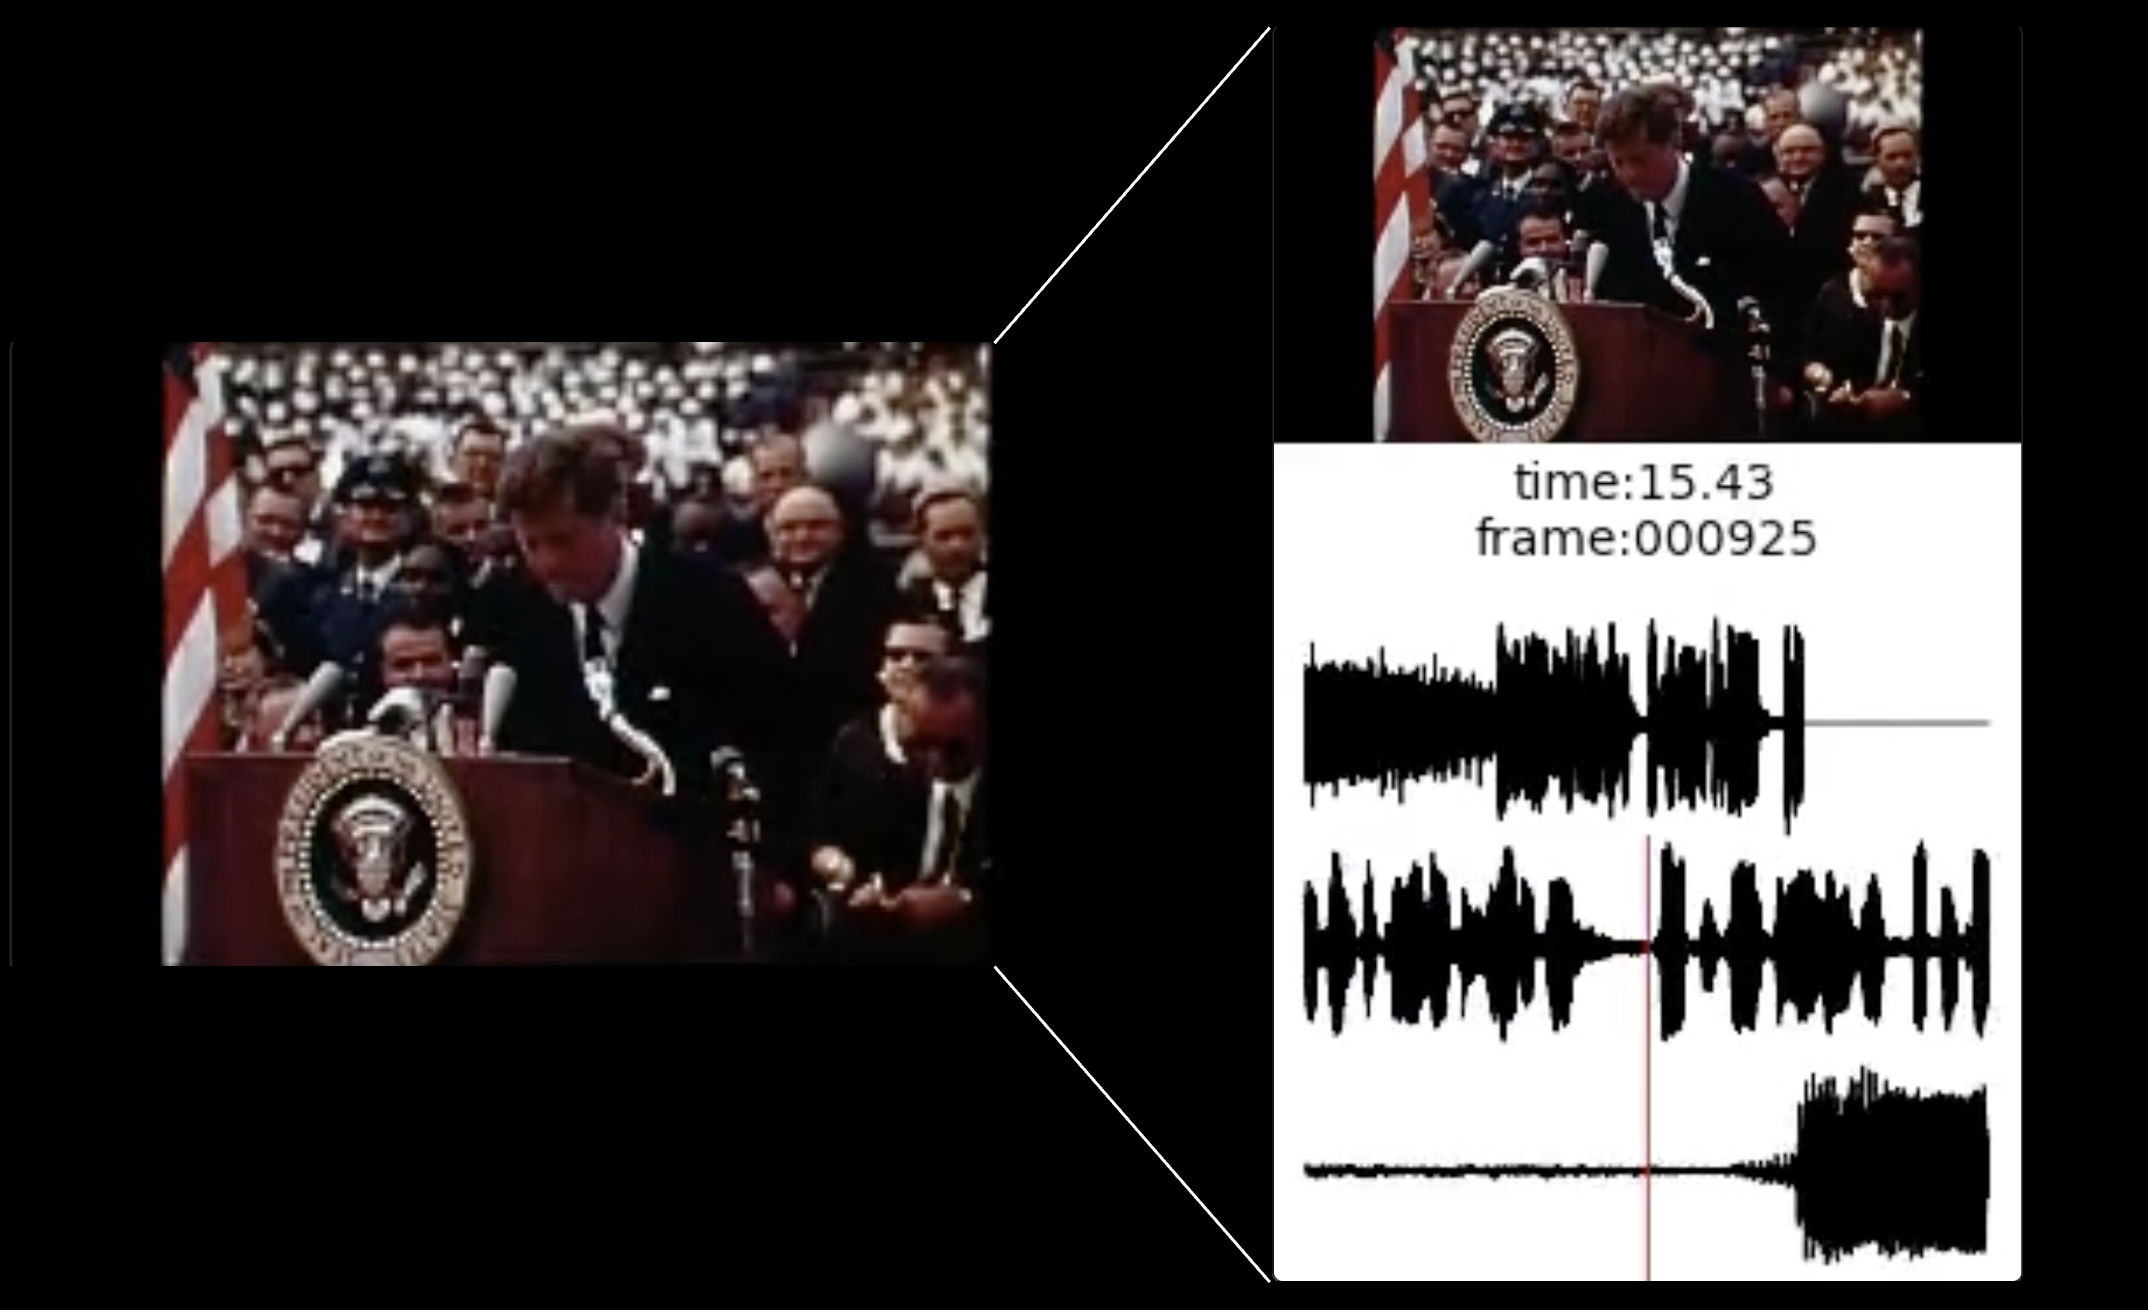
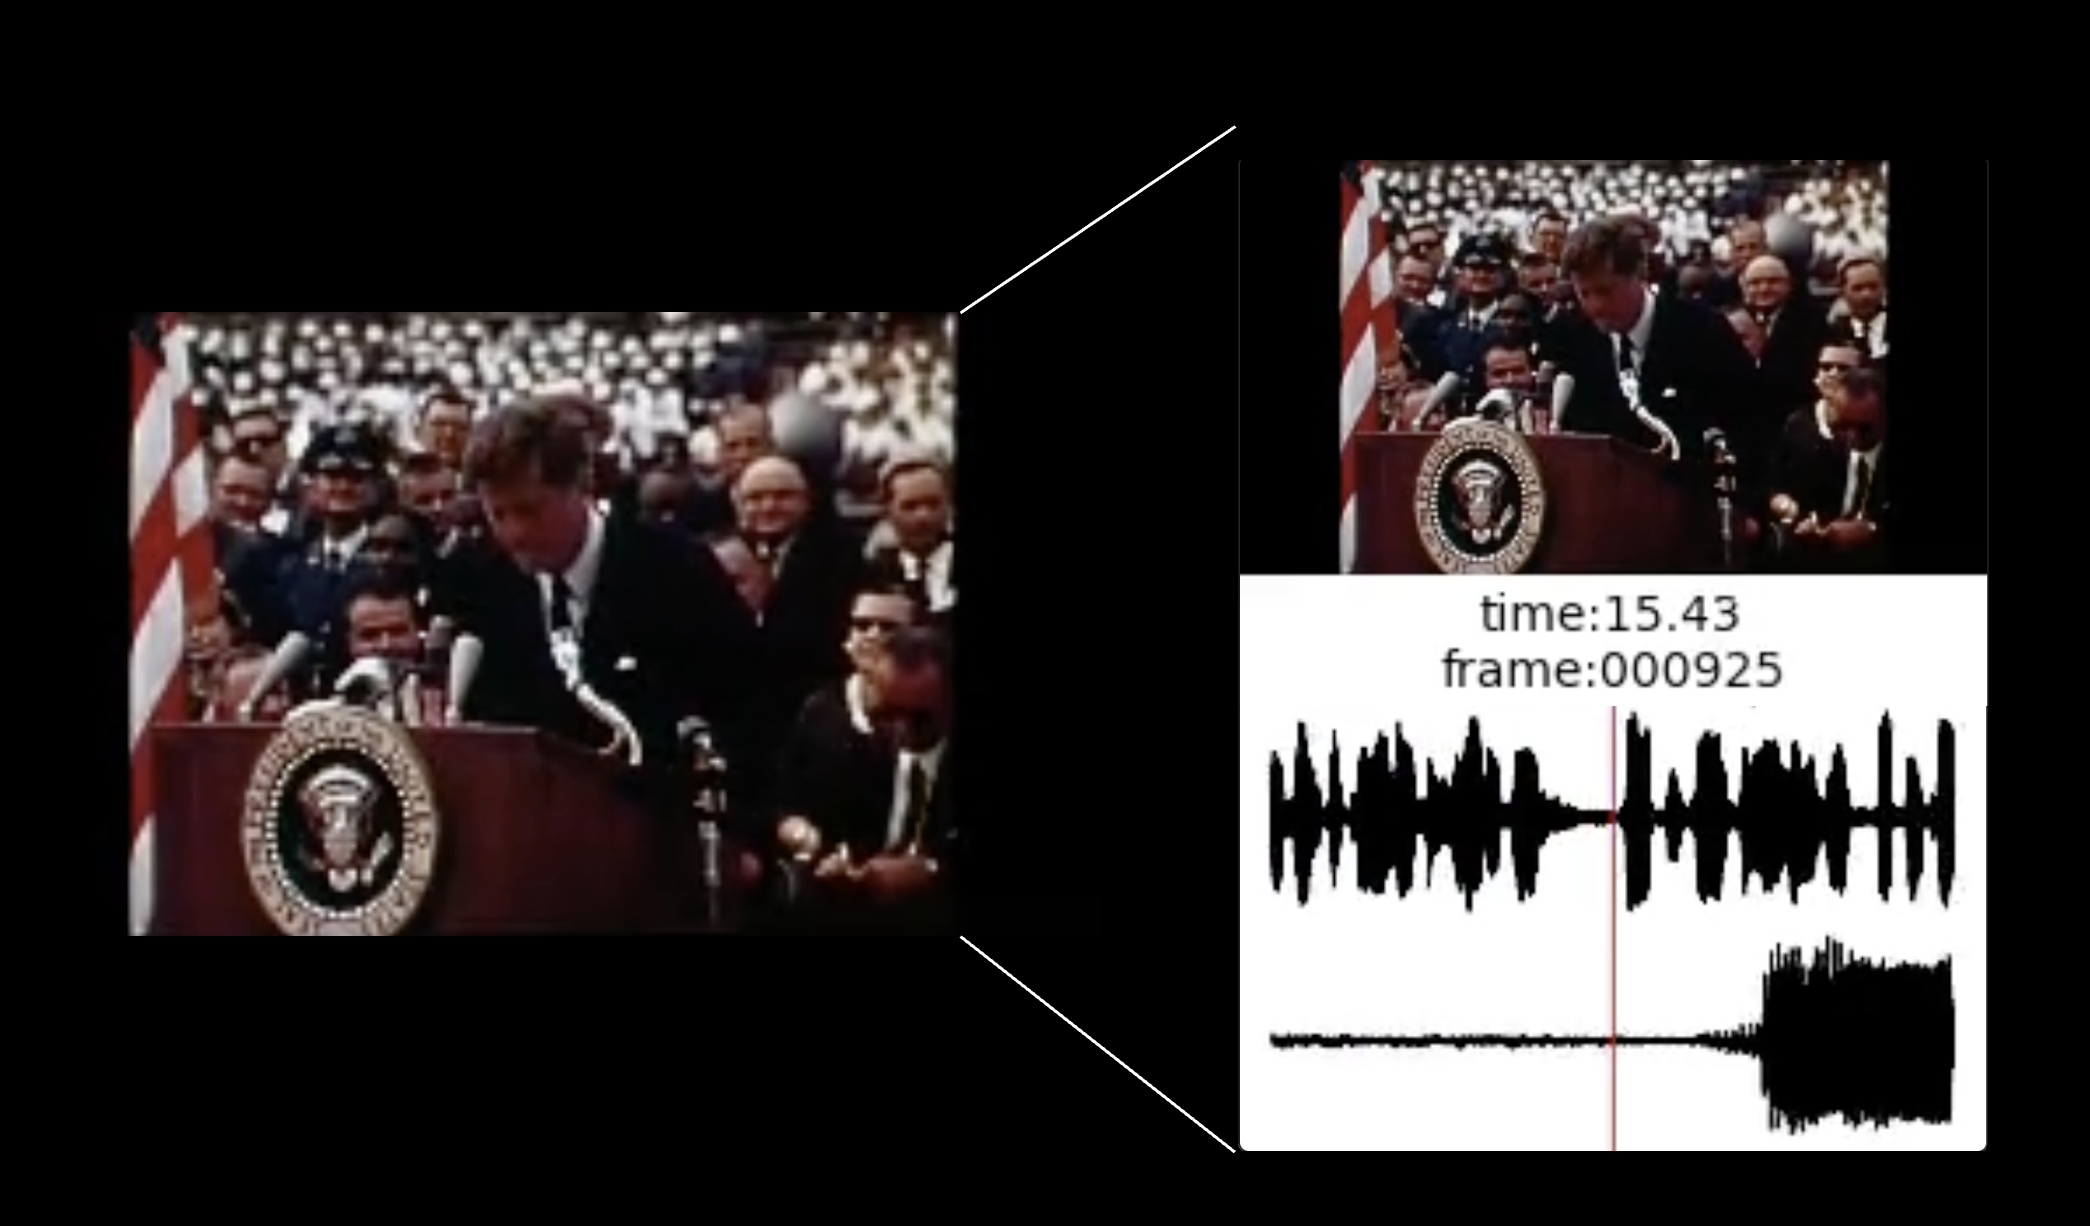
tiny vis bug correction

diff --git a/process_videos.py b/process_videos.py
@@ -173,7 +173,7 @@ def process_video(video_filename,
             ax.plot(xx, padded_audio_data[audio_start_sample:audio_end___sample]+2*i*max_audio_ampl, 'k', linewidth=0.6)
             
         ax.set_ylim((-max_audio_ampl, max_audio_ampl*(2*i+1+1.5)))
-        ax.plot([0.5, 0.5], [-max_audio_ampl, max_audio_ampl*(i+1)], color='b', linewidth=0.6)
+        ax.plot([0.5, 0.5], [-max_audio_ampl, max_audio_ampl*(2*i+1)], color='b', linewidth=0.6)
         # ax.axvline(0.5, -max_audio_ampl, max_audio_ampl*(i-1), color='b', linewidth=0.6) # old
         ax.text(0.5, max_audio_ampl*(2*i+1.5), f"time:{current_time:.2f}\nframe:{frame_count:06}", ha='center')
         fig.canvas.draw()
